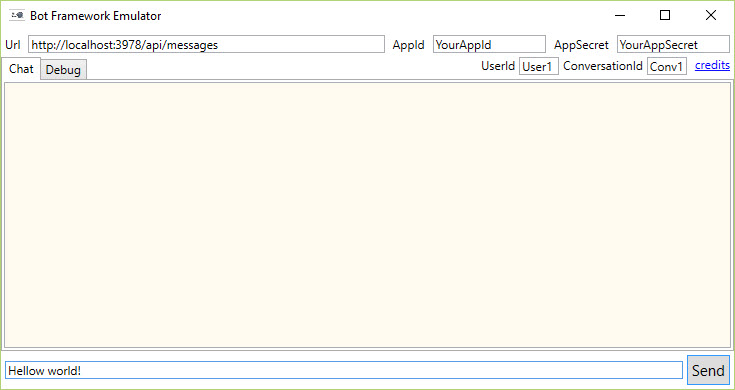
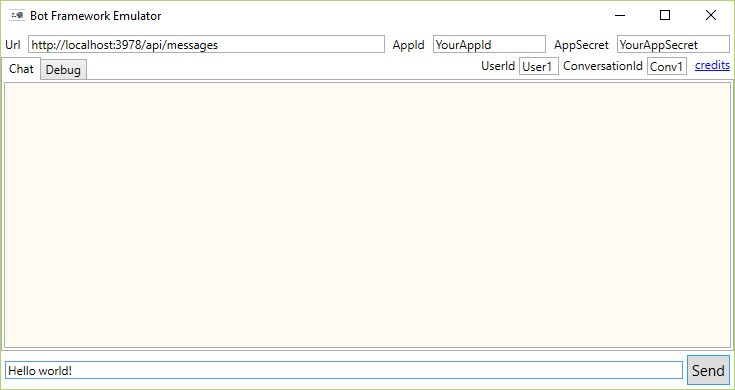
updated images (typo), minor css tweaks

diff --git a/_sass/_layout.scss b/_sass/_layout.scss
@@ -268,3 +268,7 @@
 .trigger div {
     padding: 4px 0;
 }
+
+li img {
+    padding: 5px 0 20px 0;
+}
